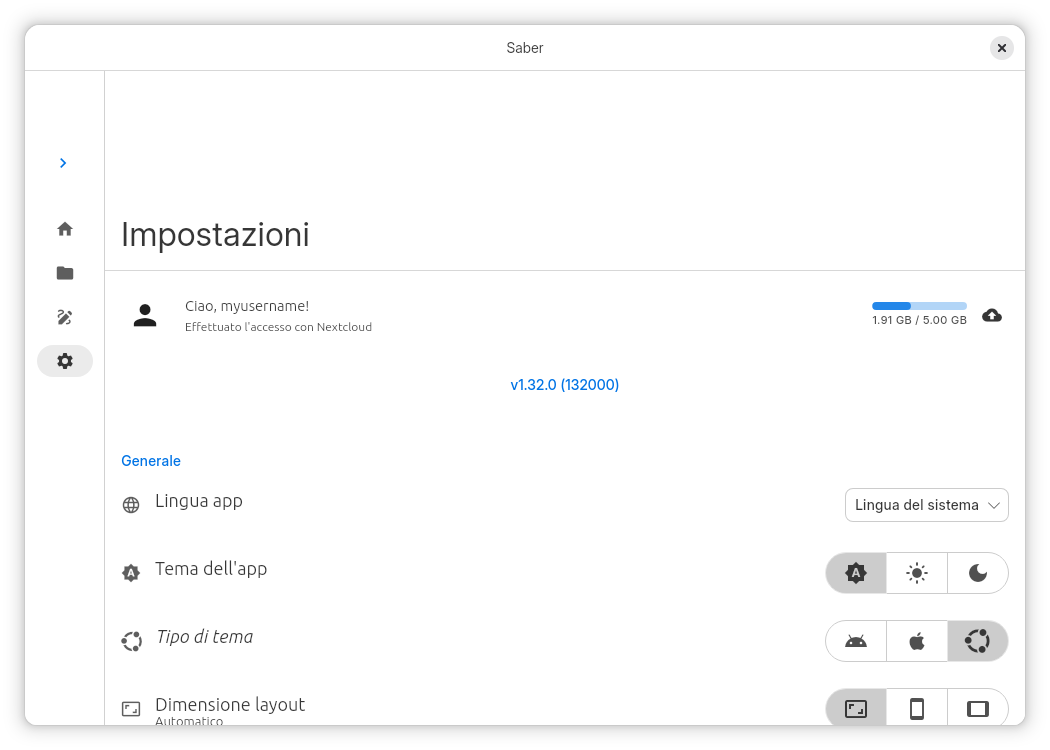
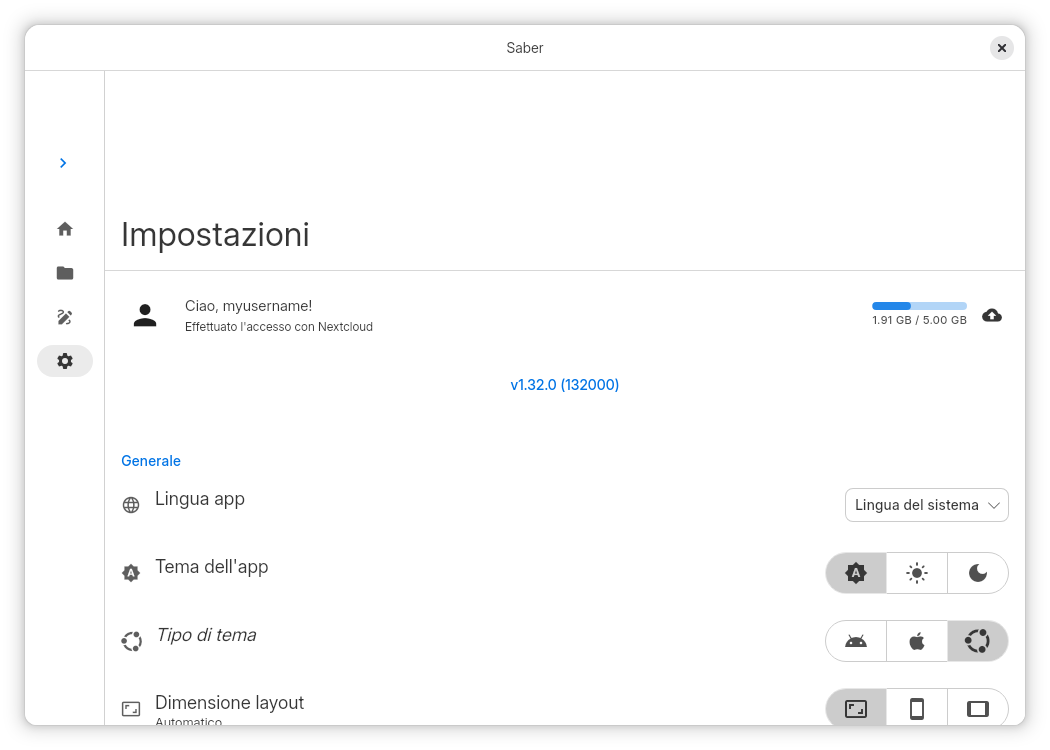
fix: stop yaru forcing bold Ubuntu font on list tiles
Also fixes some locales' screenshots

diff --git a/packages/sbn/lib/font_fallbacks.dart b/packages/sbn/lib/font_fallbacks.dart
@@ -53,65 +53,104 @@ extension TextThemeExtension on TextTheme {
     required String? fontFamily,
     List<String>? fontFamilyFallback,
   }) => copyWith(
-    displayLarge: displayLarge?.copyWith(
+    displayLarge: displayLarge?.withFont(
       fontFamily: fontFamily,
       fontFamilyFallback: fontFamilyFallback,
     ),
-    displayMedium: displayMedium?.copyWith(
+    displayMedium: displayMedium?.withFont(
       fontFamily: fontFamily,
       fontFamilyFallback: fontFamilyFallback,
     ),
-    displaySmall: displaySmall?.copyWith(
+    displaySmall: displaySmall?.withFont(
       fontFamily: fontFamily,
       fontFamilyFallback: fontFamilyFallback,
     ),
-    headlineLarge: headlineLarge?.copyWith(
+    headlineLarge: headlineLarge?.withFont(
       fontFamily: fontFamily,
       fontFamilyFallback: fontFamilyFallback,
     ),
-    headlineMedium: headlineMedium?.copyWith(
+    headlineMedium: headlineMedium?.withFont(
       fontFamily: fontFamily,
       fontFamilyFallback: fontFamilyFallback,
     ),
-    headlineSmall: headlineSmall?.copyWith(
+    headlineSmall: headlineSmall?.withFont(
       fontFamily: fontFamily,
       fontFamilyFallback: fontFamilyFallback,
     ),
-    titleLarge: titleLarge?.copyWith(
+    titleLarge: titleLarge?.withFont(
       fontFamily: fontFamily,
       fontFamilyFallback: fontFamilyFallback,
     ),
-    titleMedium: titleMedium?.copyWith(
+    titleMedium: titleMedium?.withFont(
       fontFamily: fontFamily,
       fontFamilyFallback: fontFamilyFallback,
     ),
-    titleSmall: titleSmall?.copyWith(
+    titleSmall: titleSmall?.withFont(
       fontFamily: fontFamily,
       fontFamilyFallback: fontFamilyFallback,
     ),
-    bodyLarge: bodyLarge?.copyWith(
+    bodyLarge: bodyLarge?.withFont(
       fontFamily: fontFamily,
       fontFamilyFallback: fontFamilyFallback,
     ),
-    bodyMedium: bodyMedium?.copyWith(
+    bodyMedium: bodyMedium?.withFont(
       fontFamily: fontFamily,
       fontFamilyFallback: fontFamilyFallback,
     ),
-    bodySmall: bodySmall?.copyWith(
+    bodySmall: bodySmall?.withFont(
       fontFamily: fontFamily,
       fontFamilyFallback: fontFamilyFallback,
     ),
-    labelLarge: labelLarge?.copyWith(
+    labelLarge: labelLarge?.withFont(
       fontFamily: fontFamily,
       fontFamilyFallback: fontFamilyFallback,
     ),
-    labelMedium: labelMedium?.copyWith(
+    labelMedium: labelMedium?.withFont(
       fontFamily: fontFamily,
       fontFamilyFallback: fontFamilyFallback,
     ),
-    labelSmall: labelSmall?.copyWith(
+    labelSmall: labelSmall?.withFont(
       fontFamily: fontFamily,
       fontFamilyFallback: fontFamilyFallback,
     ),
+  );
+}
+
+extension TextStyleExtension on TextStyle {
+  /// Overrides the font family of this text style.
+  ///
+  /// This method is needed because [copyWith] does not allow setting
+  /// [package] to null, which is problematic when changing from
+  /// `packages/yaru/Ubuntu` to a non-yaru font,
+  TextStyle withFont({
+    required String? fontFamily,
+    List<String>? fontFamilyFallback,
+  }) => TextStyle(
+    inherit: inherit,
+    color: color,
+    backgroundColor: backgroundColor,
+    fontSize: fontSize,
+    fontWeight: fontWeight,
+    fontStyle: fontStyle,
+    letterSpacing: letterSpacing,
+    wordSpacing: wordSpacing,
+    textBaseline: textBaseline,
+    height: height,
+    leadingDistribution: leadingDistribution,
+    locale: locale,
+    foreground: foreground,
+    background: background,
+    shadows: shadows,
+    fontFeatures: fontFeatures,
+    fontVariations: fontVariations,
+    decoration: decoration,
+    decorationColor: decorationColor,
+    decorationStyle: decorationStyle,
+    decorationThickness: decorationThickness,
+    debugLabel: debugLabel,
+    fontFamily: fontFamily ?? this.fontFamily,
+    fontFamilyFallback: fontFamilyFallback ?? this.fontFamilyFallback,
+    package: null,
+    overflow: overflow,
   );
 }

diff --git a/lib/components/theming/saber_theme.dart b/lib/components/theming/saber_theme.dart
@@ -97,12 +97,33 @@ abstract class SaberTheme {
     ThemeData base,
     TargetPlatform platform,
   ) {
+    final textTheme = _Components.textTheme(platform, base.colorScheme);
+    final fontFamily = textTheme.bodyMedium!.fontFamily;
+    final fontFamilyFallback = textTheme.bodyMedium!.fontFamilyFallback;
     return base.copyWith(
       platform: platform,
-      textTheme: _Components.textTheme(platform, base.colorScheme),
+      textTheme: textTheme,
       progressIndicatorTheme: _Components.progressIndicatorTheme,
       cardTheme: _Components.cardTheme(base.colorScheme),
       cupertinoOverrideTheme: _Components.cupertinoOverrideTheme,
+      listTileTheme: base.listTileTheme.copyWith(
+        // Yaru forces list tiles to use Ubuntu font, fix that
+        titleTextStyle: base.listTileTheme.titleTextStyle?.withFont(
+          fontFamily: fontFamily,
+          fontFamilyFallback: fontFamilyFallback,
+        ),
+        subtitleTextStyle: base.listTileTheme.subtitleTextStyle?.withFont(
+          fontFamily: fontFamily,
+          fontFamilyFallback: fontFamilyFallback,
+        ),
+        leadingAndTrailingTextStyle: base
+            .listTileTheme
+            .leadingAndTrailingTextStyle
+            ?.withFont(
+              fontFamily: fontFamily,
+              fontFamilyFallback: fontFamilyFallback,
+            ),
+      ),
       // Leave Yaru's app bar theme, since it adds a border bottom.
       // appBarTheme: _Components.appBarTheme,
     );

diff --git a/lib/components/theming/adaptive_switch_list_tile.dart b/lib/components/theming/adaptive_switch_list_tile.dart
@@ -48,17 +48,33 @@ class AdaptiveSwitchListTile extends SwitchListTile {
   Widget build(BuildContext context) {
     final theme = Theme.of(context);
     if (theme.platform == .linux) {
-      return _buildYaru(context);
+      return _buildYaru(context, theme);
     }
     return super.build(context);
   }
 
-  Widget _buildYaru(BuildContext context) {
+  Widget _buildYaru(BuildContext context, ThemeData theme) {
+    final textTheme = theme.textTheme;
+    final listTileTheme = theme.listTileTheme;
     return YaruSwitchListTile(
       value: value,
       onChanged: onChanged,
-      title: title,
-      subtitle: subtitle,
+      title: title == null
+          ? null
+          : DefaultTextStyle(
+              style: textTheme.labelLarge!
+                  .merge(listTileTheme.titleTextStyle)
+                  .copyWith(inherit: false),
+              child: title!,
+            ),
+      subtitle: subtitle == null
+          ? null
+          : DefaultTextStyle(
+              style: textTheme.labelMedium!
+                  .merge(listTileTheme.subtitleTextStyle)
+                  .copyWith(inherit: false),
+              child: subtitle!,
+            ),
       contentPadding: contentPadding,
       secondary: secondary,
       autofocus: autofocus,
